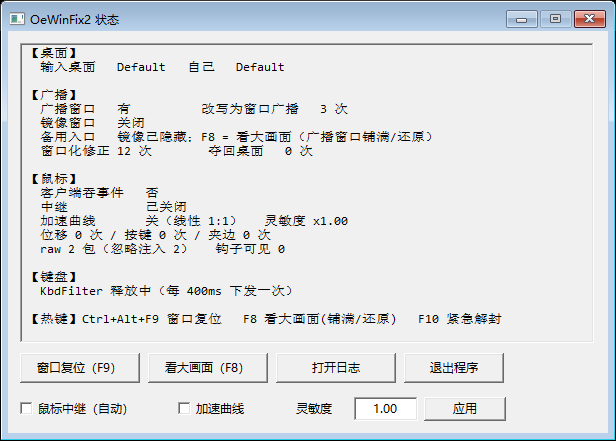
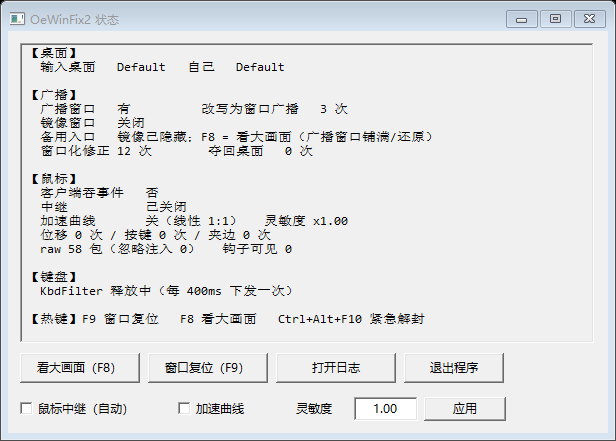
feat(hotkey): 改用裸 F8/F9 系统热键，面板按钮重新排位，顺带修掉空日志行
- 热键改成裸 F8/F9（MOD_NOREPEAT）：RegisterHotKey 是全局抢占，任何程序里按 F8/F9 都会
  触发我们（Excel F9 重算、VS F9 断点会被抢）。抢不到时自动退回 Ctrl+Alt 组合，
  日志与面板都显示实际生效的那个。F10 紧急键保留 Ctrl+Alt，避免误触。
- 面板按钮换位：看大画面（F8）在前、窗口复位（F9）在后；B 失效时五位的顺序随之调整。
- 面板【热键】行改为读 AppHotkeyDesc()，不再写死 —— 免得退回 Ctrl+Alt 时界面说谎。
- 修 Log() 空行：Log 是窄字符 printf，用 %ls 打中文宽串时 wcstombs 在 "C" locale 失败，
  _vsnprintf_s 返回 -1 -> 整行为空。改成 ASCII 标记，并在 log.h 注明这个坑。

diff --git a/src/statusui.cpp b/src/statusui.cpp
@@ -86,7 +86,7 @@ void StatusUiBuildText(wchar_t* s, int cch)
         L"【键盘】\r\n"
         L"  %ls\r\n"
         L"\r\n"
-        L"【热键】Ctrl+Alt+F9 窗口复位   F8 看大画面(铺满/还原)   F10 紧急解封\r\n"
+        L"【热键】%ls\r\n"
         L"\r\n"
         L"日志: %ls",
         InputDesktopName(), OwnDesktopName(),
@@ -107,6 +107,7 @@ void StatusUiBuildText(wchar_t* s, int cch)
         g_opt.keyboard ? (KbdAvailable() ? L"KbdFilter 释放中（每 400ms 下发一次）"
                                          : L"本机没有 KbdFilter 设备（本来也不锁）")
                        : L"已关闭",
+        AppHotkeyDesc(),
         LogFilePath());
 }
 
@@ -135,13 +136,16 @@ static void Refresh(void)
     const int y = 322, h = 30;
     UINT flags = SWP_NOZORDER | SWP_NOACTIVATE;
     if (fb) {
-        if (g_btnFix)  SetWindowPos(g_btnFix,  NULL, 12,  y, 106, h, flags);
-        if (g_btnDesk) SetWindowPos(g_btnDesk, NULL, 240, y, 146, h, flags);
-        if (g_btnLog)  SetWindowPos(g_btnLog,  NULL, 394, y, 96,  h, flags);
-        if (g_btnQuit) SetWindowPos(g_btnQuit, NULL, 498, y, 86,  h, flags);
+        // B 失效：多出"镜像"这一位 —— 切课堂桌面 / 镜像 / 窗口复位 / 日志 / 退出
+        if (g_btnDesk)   SetWindowPos(g_btnDesk,   NULL, 12,  y, 146, h, flags);
+        if (g_btnMirror) SetWindowPos(g_btnMirror, NULL, 166, y, 106, h, flags);
+        if (g_btnFix)    SetWindowPos(g_btnFix,    NULL, 280, y, 106, h, flags);
+        if (g_btnLog)    SetWindowPos(g_btnLog,    NULL, 394, y, 96,  h, flags);
+        if (g_btnQuit)   SetWindowPos(g_btnQuit,   NULL, 498, y, 86,  h, flags);
     } else {
-        if (g_btnFix)  SetWindowPos(g_btnFix,  NULL, 12,  y, 120, h, flags);
-        if (g_btnDesk) SetWindowPos(g_btnDesk, NULL, 140, y, 120, h, flags);
+        // 正常情况四位：看大画面 / 窗口复位 / 日志 / 退出
+        if (g_btnDesk) SetWindowPos(g_btnDesk, NULL, 12,  y, 120, h, flags);
+        if (g_btnFix)  SetWindowPos(g_btnFix,  NULL, 140, y, 120, h, flags);
         if (g_btnLog)  SetWindowPos(g_btnLog,  NULL, 268, y, 120, h, flags);
         if (g_btnQuit) SetWindowPos(g_btnQuit, NULL, 396, y, 100, h, flags);
     }
@@ -189,9 +193,9 @@ static LRESULT CALLBACK UiProc(HWND h, UINT m, WPARAM w, LPARAM l)
                                    WS_CHILD | WS_VISIBLE | ES_MULTILINE | ES_READONLY | ES_AUTOVSCROLL,
                                    12, 12, 574, 300, h, (HMENU)IDC_STATUS, NULL, NULL);
         struct { int id; const wchar_t* text; int x, y, cx, cy; } btns[] = {
-            { IDC_FIXNOW,  L"窗口复位（F9）",  12,  322, 106, 30 },
-            { IDC_MIRROR,  L"镜像窗口",        126, 322, 106, 30 },
-            { IDC_DESK,    L"课堂 ↔ 自己桌面",  240, 322, 146, 30 },
+            { IDC_DESK,    L"看大画面（F8）",  12,  322, 120, 30 },   // 第一位：看画面
+            { IDC_FIXNOW,  L"窗口复位（F9）",  140, 322, 120, 30 },   // 第二位：复位
+            { IDC_MIRROR,  L"镜像窗口",        268, 322, 106, 30 },
             { IDC_OPENLOG, L"打开日志",        394, 322, 96,  30 },
             { IDC_QUIT,    L"退出程序",        498, 322, 86,  30 },
         };

diff --git a/src/main.cpp b/src/main.cpp
@@ -106,6 +106,10 @@ void AppRequestExit(void)
     if (g_hidden) PostMessageW(g_hidden, WM_CLOSE, 0, 0);
 }
 
+// 实际生效的热键说明（裸 F8/F9 抢不到时会自动退回 Ctrl+Alt，面板要显示真实情况）
+static wchar_t g_hkDesc[160] = L"F9 窗口复位   F8 看大画面   Ctrl+Alt+F10 紧急解封";
+const wchar_t* AppHotkeyDesc(void) { return g_hkDesc; }
+
 // ---------------------------------------------------------------- 状态文本
 // 状态文字只有一份，在 statusui.cpp（面板和 --status/弹框共用），这里不再重复拼一遍
 static void ShowStatusBox(void)
@@ -486,10 +490,19 @@ static int RunApp(int argc, wchar_t** argv)
                                0, 0, 0, 0, NULL, NULL, wc.hInstance, NULL);
     // 故意不 ShowWindow：它只是个消息宿主
     if (g_opt.tray && g_hidden) TrayAdd(g_hidden);
-    BOOL hk1 = RegisterHotKey(g_hidden, HOTKEY_FIX,   MOD_CONTROL | MOD_ALT | MOD_NOREPEAT, VK_F9);
+    // 裸 F8 / F9（用户要求：不想再按 Ctrl+Alt）。
+    // 注意这是**全局抢占**：注册成功后在任何程序里按 F8/F9 都会触发我们 ——
+    // Excel 的 F9 重算、VS 的 F9 断点都会被抢走。抢不到（已被别的程序注册）就自动退回
+    // Ctrl+Alt 组合，日志里写清楚实际生效的是哪个。F10 是紧急键，仍保留 Ctrl+Alt 避免误触。
+    BOOL bare9 = RegisterHotKey(g_hidden, HOTKEY_FIX, MOD_NOREPEAT, VK_F9);
+    BOOL hk9   = bare9 || RegisterHotKey(g_hidden, HOTKEY_FIX, MOD_CONTROL | MOD_ALT | MOD_NOREPEAT, VK_F9);
+    BOOL bare8 = RegisterHotKey(g_hidden, 0xB008, MOD_NOREPEAT, VK_F8);
+    BOOL hk8   = bare8 || RegisterHotKey(g_hidden, 0xB008, MOD_CONTROL | MOD_ALT | MOD_NOREPEAT, VK_F8);
     BOOL hk2 = RegisterHotKey(g_hidden, HOTKEY_PANIC, MOD_CONTROL | MOD_ALT | MOD_NOREPEAT, VK_F10);
-    BOOL hk8 = RegisterHotKey(g_hidden, 0xB008, MOD_CONTROL | MOD_ALT | MOD_NOREPEAT, VK_F8);
-    Log("hotkeys: F9(立刻窗口化)=%d F10(紧急解封)=%d F8(看大画面:铺满/还原)=%d", hk1, hk2, hk8);
+    Log("hotkeys: F9(windowize-reset)=%d [%s]   F8(zoom-toggle)=%d [%s]   Ctrl+Alt+F10(panic)=%d",
+        hk9, bare9 ? "bare F9" : "Ctrl+Alt+F9", hk8, bare8 ? "bare F8" : "Ctrl+Alt+F8", hk2);
+    _snwprintf_s(g_hkDesc, 160, _TRUNCATE, L"%ls 窗口复位   %ls 看大画面   Ctrl+Alt+F10 紧急解封",
+                 bare9 ? L"F9" : L"Ctrl+Alt+F9", bare8 ? L"F8" : L"Ctrl+Alt+F8");
     Log("已进入守护状态（双击托盘图标看状态面板；面板里或右键菜单可退出）");
 
     // 默认把面板摆出来：只靠托盘图标的话，图标一进"隐藏的图标"就等于没有 UI

diff --git a/src/log.h b/src/log.h
@@ -7,5 +7,8 @@
 void  LogInit(const wchar_t* path /*NULL/空 = 与 exe 同目录 OeWinFix2.log*/);
 void  LogClose(void);
 void  Log(const char* fmt, ...);       // 自动加 [HH:MM:SS] 前缀并写文件
+// 注意：Log() 是**窄字符** printf。不要把 `%ls` 和含中文的宽字符串一起用 ——
+// 默认 "C" locale 下 wcstombs 转换失败，_vsnprintf_s 返回 -1，结果是整行输出为空。
+// 要打中文请用 %s + UTF-8 窄字符串（源文件已经是 /utf-8 编译）。
 void  LogW(const wchar_t* text);       // 直接写一行宽字符(少见)
 const wchar_t* LogFilePath(void);      // 实际日志全路径（状态框/打开日志目录用）

diff --git a/src/statusui.h b/src/statusui.h
@@ -6,6 +6,8 @@
 
 // 由 main.cpp 实现：面板上的"退出程序"按钮走这里（走正常退出路径，不是 TerminateProcess）
 void AppRequestExit(void);
+// 由 main.cpp 实现：实际生效的热键说明（裸 F8/F9 抢不到会退回 Ctrl+Alt，面板要显示真实情况）
+const wchar_t* AppHotkeyDesc(void);
 
 void StatusUiShow(void);     // 没建就建，已有就前置
 void StatusUiClose(void);    // 退出程序时调用

diff --git a/test/uitest.cpp b/test/uitest.cpp
@@ -40,6 +40,7 @@ int   BcastFixCount(void)             { return 3; }
 
 // statusui 的"退出程序"按钮：壳里就是关掉自己
 void  AppRequestExit(void)            { PostQuitMessage(0); }
+const wchar_t* AppHotkeyDesc(void)    { return L"F9 窗口复位   F8 看大画面   Ctrl+Alt+F10 紧急解封"; }
 
 int WINAPI wWinMain(HINSTANCE hInst, HINSTANCE, LPWSTR, int)
 {
